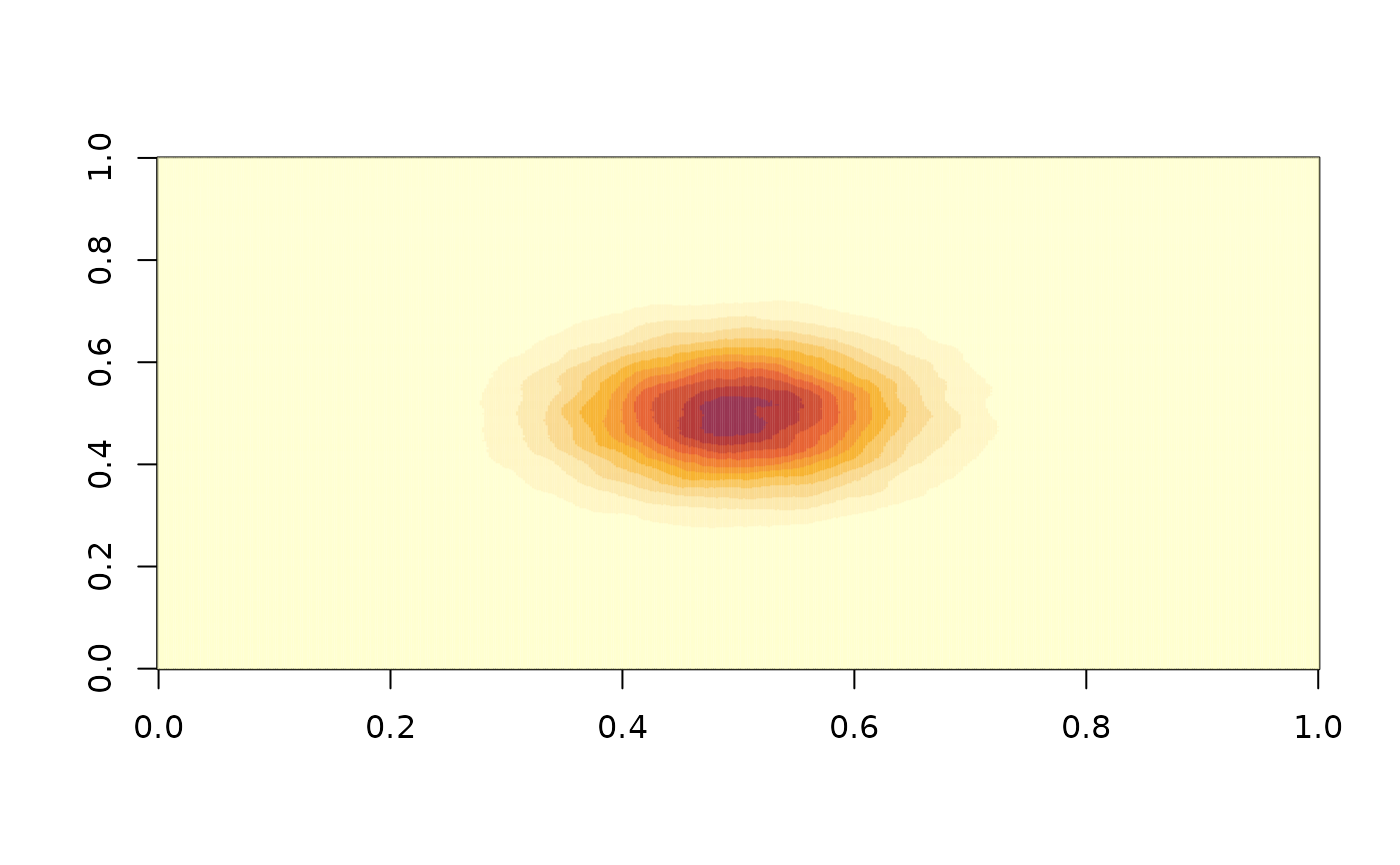
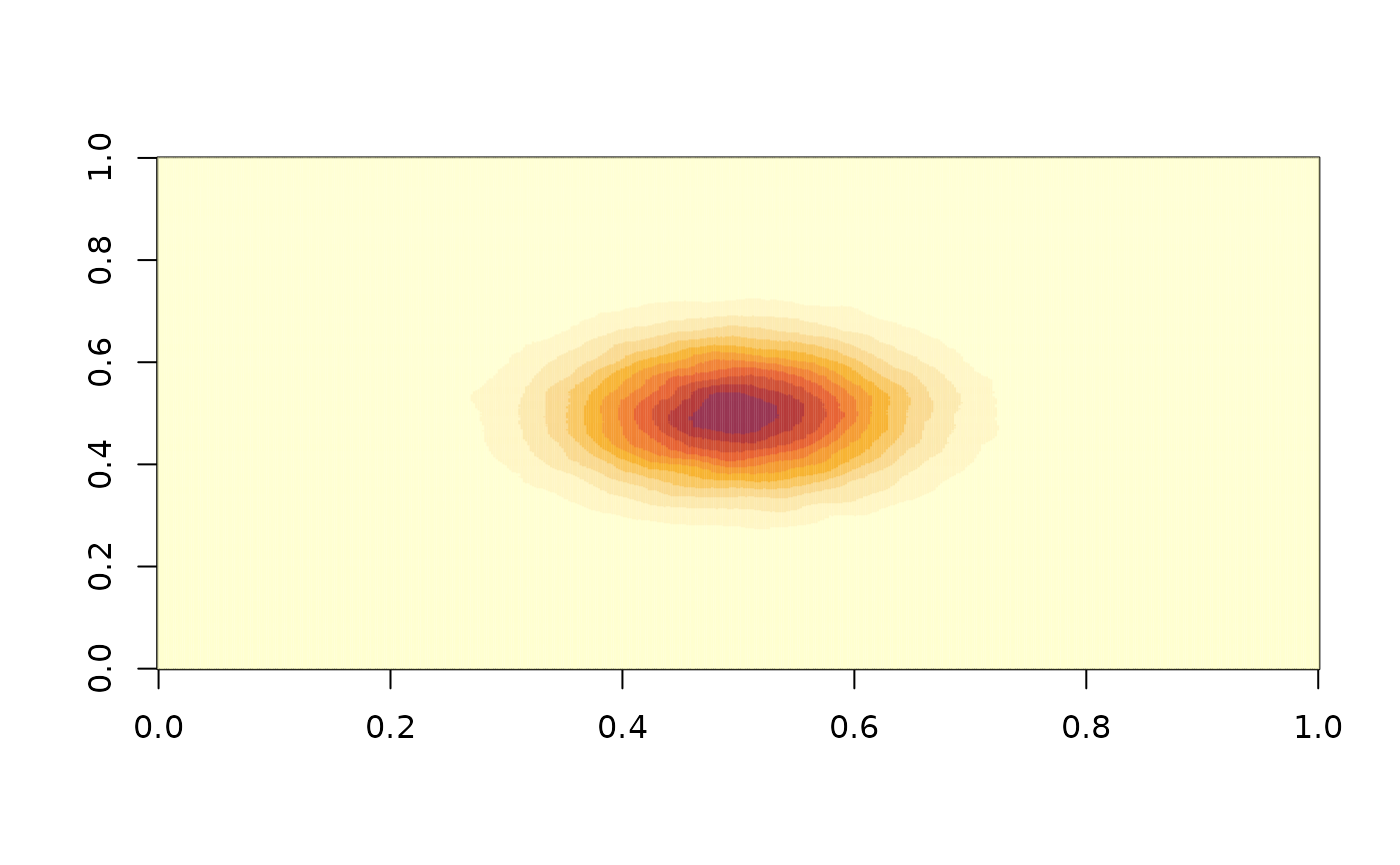
Built site for scattermore2: 0.0.0.9000@a1cd35c

diff --git a/index.html b/index.html
@@ -102,46 +102,69 @@
 <h4 id="make-histograms">Make Histograms…<a class="anchor" aria-label="anchor" href="#make-histograms"></a>
 </h4>
 <div class="sourceCode" id="cb3"><pre class="downlit sourceCode r">
-<code class="sourceCode R"><span class="va">histogram</span> <span class="op">&lt;-</span> <span class="fu">make_histogram</span><span class="op">(</span><span class="fu"><a href="https://rdrr.io/r/base/cbind.html" class="external-link">cbind</a></span><span class="op">(</span><span class="fu"><a href="https://rdrr.io/r/stats/Normal.html" class="external-link">rnorm</a></span><span class="op">(</span><span class="fl">1e5</span><span class="op">)</span>, <span class="fu"><a href="https://rdrr.io/r/stats/Normal.html" class="external-link">rnorm</a></span><span class="op">(</span><span class="fl">1e5</span><span class="op">)</span><span class="op">)</span><span class="op">)</span>
-<span class="va">colorized_histogram</span> <span class="op">&lt;-</span> <span class="fu">colorize_histogram</span><span class="op">(</span><span class="va">histogram</span><span class="op">)</span>
-<span class="va">raster</span> <span class="op">&lt;-</span> <span class="fu"><a href="reference/rgba_int_to_raster.html">rgba_int_to_raster</a></span><span class="op">(</span><span class="fu"><a href="reference/rgbwt_to_rgba_int.html">rgbwt_to_rgba_int</a></span><span class="op">(</span><span class="va">colorized_histogram</span><span class="op">)</span><span class="op">)</span>
+<code class="sourceCode R"><span class="va">histogram</span> <span class="op">&lt;-</span> <span class="fu"><a href="reference/scatter_histogram.html">scatter_histogram</a></span><span class="op">(</span><span class="fu"><a href="https://rdrr.io/r/base/cbind.html" class="external-link">cbind</a></span><span class="op">(</span><span class="fu"><a href="https://rdrr.io/r/stats/Normal.html" class="external-link">rnorm</a></span><span class="op">(</span><span class="fl">1e5</span><span class="op">)</span>, <span class="fu"><a href="https://rdrr.io/r/stats/Normal.html" class="external-link">rnorm</a></span><span class="op">(</span><span class="fl">1e5</span><span class="op">)</span><span class="op">)</span>, xlim<span class="op">=</span><span class="fu"><a href="https://rdrr.io/r/base/c.html" class="external-link">c</a></span><span class="op">(</span><span class="op">-</span><span class="fl">5</span>,<span class="fl">5</span><span class="op">)</span>, ylim<span class="op">=</span><span class="fu"><a href="https://rdrr.io/r/base/c.html" class="external-link">c</a></span><span class="op">(</span><span class="op">-</span><span class="fl">5</span>,<span class="fl">5</span><span class="op">)</span><span class="op">)</span>
+<span class="va">blurred_histogram</span> <span class="op">&lt;-</span> <span class="fu"><a href="reference/apply_kernel_histogram.html">apply_kernel_histogram</a></span><span class="op">(</span><span class="va">histogram</span>, kernel_pixels<span class="op">=</span><span class="fl">10</span><span class="op">)</span>
+<span class="va">rgbwt</span> <span class="op">&lt;-</span> <span class="fu"><a href="reference/histogram_to_rgbwt.html">histogram_to_rgbwt</a></span><span class="op">(</span><span class="va">blurred_histogram</span><span class="op">)</span>
+<span class="va">raster</span> <span class="op">&lt;-</span> <span class="fu"><a href="reference/rgba_int_to_raster.html">rgba_int_to_raster</a></span><span class="op">(</span><span class="fu"><a href="reference/rgbwt_to_rgba_int.html">rgbwt_to_rgba_int</a></span><span class="op">(</span><span class="va">rgbwt</span><span class="op">)</span><span class="op">)</span>
 <span class="fu"><a href="https://rdrr.io/r/graphics/plot.default.html" class="external-link">plot</a></span><span class="op">(</span><span class="va">raster</span><span class="op">)</span></code></pre></div>
 </div>
 <div class="section level4">
-<h4 id="-colorize-data">… Colorize Data…<a class="anchor" aria-label="anchor" href="#-colorize-data"></a>
+<h4 id="-colorize-points">… Colorize Points…<a class="anchor" aria-label="anchor" href="#-colorize-points"></a>
 </h4>
 <div class="sourceCode" id="cb4"><pre class="downlit sourceCode r">
-<code class="sourceCode R"><span class="va">colorized</span> <span class="op">&lt;-</span> <span class="fu">colorize_data</span><span class="op">(</span><span class="fu"><a href="https://rdrr.io/r/base/cbind.html" class="external-link">cbind</a></span><span class="op">(</span><span class="fu"><a href="https://rdrr.io/r/stats/Normal.html" class="external-link">rnorm</a></span><span class="op">(</span><span class="fl">1e5</span><span class="op">)</span>, <span class="fu"><a href="https://rdrr.io/r/stats/Normal.html" class="external-link">rnorm</a></span><span class="op">(</span><span class="fl">1e5</span><span class="op">)</span><span class="op">)</span>, RGBA<span class="op">=</span> <span class="fu"><a href="https://rdrr.io/r/base/c.html" class="external-link">c</a></span><span class="op">(</span><span class="fl">64</span>,<span class="fl">128</span>,<span class="fl">192</span>,<span class="fl">50</span><span class="op">)</span><span class="op">)</span>
-<span class="va">raster</span> <span class="op">&lt;-</span> <span class="fu"><a href="reference/rgba_int_to_raster.html">rgba_int_to_raster</a></span><span class="op">(</span><span class="fu"><a href="reference/rgbwt_to_rgba_int.html">rgbwt_to_rgba_int</a></span><span class="op">(</span><span class="va">colorized</span><span class="op">)</span><span class="op">)</span>
+<code class="sourceCode R"><span class="va">rgbwt</span> <span class="op">&lt;-</span> <span class="fu"><a href="reference/scatter_points_rgbwt.html">scatter_points_rgbwt</a></span><span class="op">(</span><span class="va">points</span>, RGBA<span class="op">=</span> <span class="fu"><a href="https://rdrr.io/r/base/c.html" class="external-link">c</a></span><span class="op">(</span><span class="fl">64</span>,<span class="fl">128</span>,<span class="fl">192</span>,<span class="fl">50</span><span class="op">)</span>, xlim<span class="op">=</span><span class="fu"><a href="https://rdrr.io/r/base/c.html" class="external-link">c</a></span><span class="op">(</span><span class="op">-</span><span class="fl">5</span>,<span class="fl">5</span><span class="op">)</span>, ylim<span class="op">=</span><span class="fu"><a href="https://rdrr.io/r/base/c.html" class="external-link">c</a></span><span class="op">(</span><span class="op">-</span><span class="fl">5</span>,<span class="fl">5</span><span class="op">)</span><span class="op">)</span>
+<span class="va">blurred_rgbwt</span> <span class="op">&lt;-</span> <span class="fu"><a href="reference/apply_kernel_rgbwt.html">apply_kernel_rgbwt</a></span><span class="op">(</span><span class="va">rgbwt</span><span class="op">)</span>
+<span class="va">raster</span> <span class="op">&lt;-</span> <span class="fu"><a href="reference/rgba_int_to_raster.html">rgba_int_to_raster</a></span><span class="op">(</span><span class="fu"><a href="reference/rgbwt_to_rgba_int.html">rgbwt_to_rgba_int</a></span><span class="op">(</span><span class="va">blurred_rgbwt</span><span class="op">)</span><span class="op">)</span>
 <span class="fu"><a href="https://rdrr.io/r/graphics/plot.default.html" class="external-link">plot</a></span><span class="op">(</span><span class="va">raster</span><span class="op">)</span></code></pre></div>
 </div>
 <div class="section level4">
-<h4 id="-and-other-stuff">… and Other Stuff<a class="anchor" aria-label="anchor" href="#-and-other-stuff"></a>
+<h4 id="-merge">… Merge…<a class="anchor" aria-label="anchor" href="#-merge"></a>
 </h4>
 <div class="sourceCode" id="cb5"><pre class="downlit sourceCode r">
-<code class="sourceCode R"><span class="va">blabla</span></code></pre></div>
+<code class="sourceCode R"><span class="va">p1</span> <span class="op">&lt;-</span> <span class="fu"><a href="reference/scatter_points_rgbwt.html">scatter_points_rgbwt</a></span><span class="op">(</span><span class="va">points</span>, RGBA<span class="op">=</span> <span class="fu"><a href="https://rdrr.io/r/base/c.html" class="external-link">c</a></span><span class="op">(</span><span class="fl">64</span>,<span class="fl">128</span>,<span class="fl">192</span>,<span class="fl">50</span><span class="op">)</span>, xlim<span class="op">=</span><span class="fu"><a href="https://rdrr.io/r/base/c.html" class="external-link">c</a></span><span class="op">(</span><span class="op">-</span><span class="fl">5</span>,<span class="fl">5</span><span class="op">)</span>, ylim<span class="op">=</span><span class="fu"><a href="https://rdrr.io/r/base/c.html" class="external-link">c</a></span><span class="op">(</span><span class="op">-</span><span class="fl">5</span>,<span class="fl">5</span><span class="op">)</span><span class="op">)</span>
+<span class="va">p2</span> <span class="op">&lt;-</span> <span class="fu"><a href="reference/scatter_points_rgbwt.html">scatter_points_rgbwt</a></span><span class="op">(</span><span class="va">points</span>, RGBA<span class="op">=</span> <span class="fu"><a href="https://rdrr.io/r/base/c.html" class="external-link">c</a></span><span class="op">(</span><span class="fl">192</span>,<span class="fl">128</span>,<span class="fl">64</span>,<span class="fl">50</span><span class="op">)</span>, xlim<span class="op">=</span><span class="fu"><a href="https://rdrr.io/r/base/c.html" class="external-link">c</a></span><span class="op">(</span><span class="op">-</span><span class="fl">5</span>,<span class="fl">5</span><span class="op">)</span>, ylim<span class="op">=</span><span class="fu"><a href="https://rdrr.io/r/base/c.html" class="external-link">c</a></span><span class="op">(</span><span class="op">-</span><span class="fl">5</span>,<span class="fl">5</span><span class="op">)</span><span class="op">)</span>
+
+<span class="va">merged</span> <span class="op">&lt;-</span> <span class="fu"><a href="reference/merge_rgbwt.html">merge_rgbwt</a></span><span class="op">(</span><span class="va">p1</span>,<span class="va">p2</span><span class="op">)</span>
+<span class="va">raster</span> <span class="op">&lt;-</span> <span class="fu"><a href="reference/rgba_int_to_raster.html">rgba_int_to_raster</a></span><span class="op">(</span><span class="fu"><a href="reference/rgbwt_to_rgba_int.html">rgbwt_to_rgba_int</a></span><span class="op">(</span><span class="va">merged</span><span class="op">)</span><span class="op">)</span>
+<span class="fu"><a href="https://rdrr.io/r/graphics/plot.default.html" class="external-link">plot</a></span><span class="op">(</span><span class="va">raster</span><span class="op">)</span></code></pre></div>
+</div>
+<div class="section level4">
+<h4 id="-and-blend">… and Blend<a class="anchor" aria-label="anchor" href="#-and-blend"></a>
+</h4>
+<div class="sourceCode" id="cb6"><pre class="downlit sourceCode r">
+<code class="sourceCode R"><span class="va">p1</span> <span class="op">&lt;-</span> <span class="fu"><a href="reference/scatter_points_rgbwt.html">scatter_points_rgbwt</a></span><span class="op">(</span><span class="va">points</span>, RGBA<span class="op">=</span> <span class="fu"><a href="https://rdrr.io/r/base/c.html" class="external-link">c</a></span><span class="op">(</span><span class="fl">64</span>,<span class="fl">128</span>,<span class="fl">192</span>,<span class="fl">50</span><span class="op">)</span>, xlim<span class="op">=</span><span class="fu"><a href="https://rdrr.io/r/base/c.html" class="external-link">c</a></span><span class="op">(</span><span class="op">-</span><span class="fl">5</span>,<span class="fl">5</span><span class="op">)</span>, ylim<span class="op">=</span><span class="fu"><a href="https://rdrr.io/r/base/c.html" class="external-link">c</a></span><span class="op">(</span><span class="op">-</span><span class="fl">5</span>,<span class="fl">5</span><span class="op">)</span><span class="op">)</span>
+<span class="va">p2</span> <span class="op">&lt;-</span> <span class="fu"><a href="reference/scatter_points_rgbwt.html">scatter_points_rgbwt</a></span><span class="op">(</span><span class="va">points</span>, RGBA<span class="op">=</span> <span class="fu"><a href="https://rdrr.io/r/base/c.html" class="external-link">c</a></span><span class="op">(</span><span class="fl">192</span>,<span class="fl">128</span>,<span class="fl">64</span>,<span class="fl">50</span><span class="op">)</span>, xlim<span class="op">=</span><span class="fu"><a href="https://rdrr.io/r/base/c.html" class="external-link">c</a></span><span class="op">(</span><span class="op">-</span><span class="fl">5</span>,<span class="fl">5</span><span class="op">)</span>, ylim<span class="op">=</span><span class="fu"><a href="https://rdrr.io/r/base/c.html" class="external-link">c</a></span><span class="op">(</span><span class="op">-</span><span class="fl">5</span>,<span class="fl">5</span><span class="op">)</span><span class="op">)</span>
+
+<span class="va">p1_frgba</span> <span class="op">&lt;-</span> <span class="fu"><a href="reference/rgbwt_to_rgba_float.html">rgbwt_to_rgba_float</a></span><span class="op">(</span><span class="va">p1</span><span class="op">)</span>
+<span class="va">p2_frgba</span> <span class="op">&lt;-</span> <span class="fu"><a href="reference/rgbwt_to_rgba_float.html">rgbwt_to_rgba_float</a></span><span class="op">(</span><span class="va">p2</span><span class="op">)</span>
+<span class="va">blended</span> <span class="op">&lt;-</span> <span class="fu"><a href="reference/blend_rgba_float.html">blend_rgba_float</a></span><span class="op">(</span><span class="va">p1_frgba</span>,<span class="va">p2_frgba</span><span class="op">)</span>
+<span class="va">raster</span> <span class="op">&lt;-</span> <span class="fu"><a href="reference/rgba_int_to_raster.html">rgba_int_to_raster</a></span><span class="op">(</span><span class="fu"><a href="reference/rgba_float_to_rgba_int.html">rgba_float_to_rgba_int</a></span><span class="op">(</span><span class="va">blended</span><span class="op">)</span><span class="op">)</span>
+<span class="fu"><a href="https://rdrr.io/r/graphics/plot.default.html" class="external-link">plot</a></span><span class="op">(</span><span class="va">raster</span><span class="op">)</span></code></pre></div>
+</div>
+<div class="section level4">
+<h4 id="you-can-find-more-information-in-vignettes">You can find more information in vignettes.<a class="anchor" aria-label="anchor" href="#you-can-find-more-information-in-vignettes"></a>
+</h4>
 </div>
 </div>
 <div class="section level3">
 <h3 id="really-fast-">Really Fast ⏩<a class="anchor" aria-label="anchor" href="#really-fast-"></a>
 </h3>
 <p>Compare <code>scattermore2</code> with default R functionality. <code>Scattermore2</code> only creates raster graphics for the plots, its result can be plotted afterwards.</p>
-<div class="sourceCode" id="cb6"><pre class="downlit sourceCode r">
+<div class="sourceCode" id="cb7"><pre class="downlit sourceCode r">
 <code class="sourceCode R"><span class="co"># create 10 million 2D datapoints</span>
-<span class="va">data</span> <span class="op">&lt;-</span> <span class="fu"><a href="https://rdrr.io/r/base/cbind.html" class="external-link">cbind</a></span><span class="op">(</span><span class="fu"><a href="https://rdrr.io/r/stats/Normal.html" class="external-link">rnorm</a></span><span class="op">(</span><span class="fl">1e7</span><span class="op">)</span>,<span class="fu"><a href="https://rdrr.io/r/stats/Normal.html" class="external-link">rnorm</a></span><span class="op">(</span><span class="fl">1e7</span><span class="op">)</span><span class="op">)</span></code></pre></div>
-<div class="sourceCode" id="cb7"><pre class="sourceCode r"><code class="sourceCode r"><span id="cb7-1"><a href="#cb7-1"></a><span class="co"># plot the datapoints and see how long it takes</span></span>
-<span id="cb7-2"><a href="#cb7-2"></a><span class="kw">system.time</span>(<span class="kw">plot</span>(<span class="kw">rgba_int_to_raster</span>(<span class="kw">rgbwt_to_rgba_int</span>(<span class="kw">colorize_data</span>(data, <span class="dt">RGBA=</span> <span class="kw">c</span>(<span class="dv">64</span>,<span class="dv">128</span>,<span class="dv">192</span>,<span class="dv">50</span>))))))</span>
-<span id="cb7-3"><a href="#cb7-3"></a></span>
-<span id="cb7-4"><a href="#cb7-4"></a>   user  system elapsed </span>
-<span id="cb7-5"><a href="#cb7-5"></a>  <span class="fl">0.743</span>   <span class="fl">0.216</span>   <span class="fl">0.959</span> </span></code></pre></div>
+<span class="va">points</span> <span class="op">&lt;-</span> <span class="fu"><a href="https://rdrr.io/r/base/cbind.html" class="external-link">cbind</a></span><span class="op">(</span><span class="fu"><a href="https://rdrr.io/r/stats/Normal.html" class="external-link">rnorm</a></span><span class="op">(</span><span class="fl">1e7</span><span class="op">)</span>,<span class="fu"><a href="https://rdrr.io/r/stats/Normal.html" class="external-link">rnorm</a></span><span class="op">(</span><span class="fl">1e7</span><span class="op">)</span><span class="op">)</span></code></pre></div>
+<div class="sourceCode" id="cb8"><pre class="sourceCode r"><code class="sourceCode r"><span id="cb8-1"><a href="#cb8-1"></a><span class="co"># plot the datapoints and see how long it takes</span></span>
+<span id="cb8-2"><a href="#cb8-2"></a><span class="kw">system.time</span>(<span class="kw">plot</span>(<span class="kw">rgba_int_to_raster</span>(<span class="kw">rgbwt_to_rgba_int</span>(<span class="kw">scatter_points_rgbwt</span>(points, <span class="dt">RGBA=</span> <span class="kw">c</span>(<span class="dv">64</span>,<span class="dv">128</span>,<span class="dv">192</span>,<span class="dv">50</span>), <span class="dt">xlim=</span><span class="kw">c</span>(<span class="op">-</span><span class="dv">5</span>,<span class="dv">5</span>), <span class="dt">ylim=</span><span class="kw">c</span>(<span class="op">-</span><span class="dv">5</span>,<span class="dv">5</span>))))))</span>
+<span id="cb8-3"><a href="#cb8-3"></a></span>
+<span id="cb8-4"><a href="#cb8-4"></a>   user  system elapsed </span>
+<span id="cb8-5"><a href="#cb8-5"></a>  <span class="fl">0.743</span>   <span class="fl">0.216</span>   <span class="fl">0.959</span> </span></code></pre></div>
 <p>You should see something like this:</p>
 <p><kbd><img src="https://raw.githubusercontent.com/teri934/scattermore2/master/pictures/blue_circle.png" width="500" height="500"></kbd></p>
 <p>Now the default:</p>
-<div class="sourceCode" id="cb8"><pre class="sourceCode r"><code class="sourceCode r"><span id="cb8-1"><a href="#cb8-1"></a><span class="kw">system.time</span>(<span class="kw">plot</span>(data, <span class="dt">pch=</span><span class="st">'.'</span>, <span class="dt">xlim=</span><span class="kw">c</span>(<span class="op">-</span><span class="dv">5</span>,<span class="dv">5</span>), <span class="dt">ylim=</span><span class="kw">c</span>(<span class="op">-</span><span class="dv">5</span>,<span class="dv">5</span>), <span class="dt">col=</span><span class="kw">rgb</span>(<span class="fl">0.25</span>,<span class="fl">0.5</span>,<span class="fl">0.75</span>,<span class="fl">0.04</span>)))</span>
-<span id="cb8-2"><a href="#cb8-2"></a></span>
-<span id="cb8-3"><a href="#cb8-3"></a>   user  system elapsed </span>
-<span id="cb8-4"><a href="#cb8-4"></a>  <span class="fl">6.944</span>   <span class="fl">0.060</span>   <span class="fl">7.012</span> </span></code></pre></div>
-<p>So we see other…</p>
+<div class="sourceCode" id="cb9"><pre class="sourceCode r"><code class="sourceCode r"><span id="cb9-1"><a href="#cb9-1"></a><span class="kw">system.time</span>(<span class="kw">plot</span>(points, <span class="dt">pch=</span><span class="st">'.'</span>, <span class="dt">xlim=</span><span class="kw">c</span>(<span class="op">-</span><span class="dv">5</span>,<span class="dv">5</span>), <span class="dt">ylim=</span><span class="kw">c</span>(<span class="op">-</span><span class="dv">5</span>,<span class="dv">5</span>), <span class="dt">col=</span><span class="kw">rgb</span>(<span class="fl">0.25</span>,<span class="fl">0.5</span>,<span class="fl">0.75</span>,<span class="fl">0.04</span>)))</span>
+<span id="cb9-2"><a href="#cb9-2"></a></span>
+<span id="cb9-3"><a href="#cb9-3"></a>   user  system elapsed </span>
+<span id="cb9-4"><a href="#cb9-4"></a>  <span class="fl">6.944</span>   <span class="fl">0.060</span>   <span class="fl">7.012</span> </span></code></pre></div>
 </div>
 <div class="section level3">
 <h3 id="scattermore2-and-archaelogy-">Scattermore2 and Archaelogy 🦴<a class="anchor" aria-label="anchor" href="#scattermore2-and-archaelogy-"></a>
